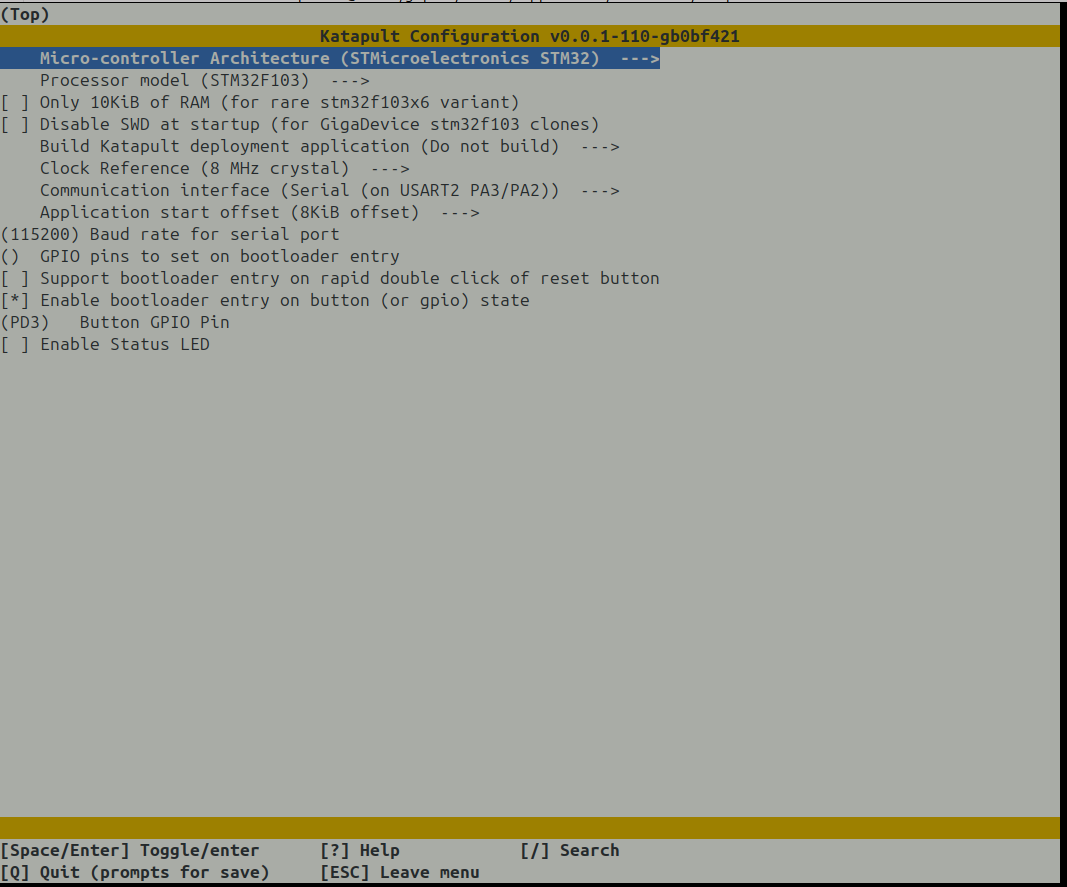
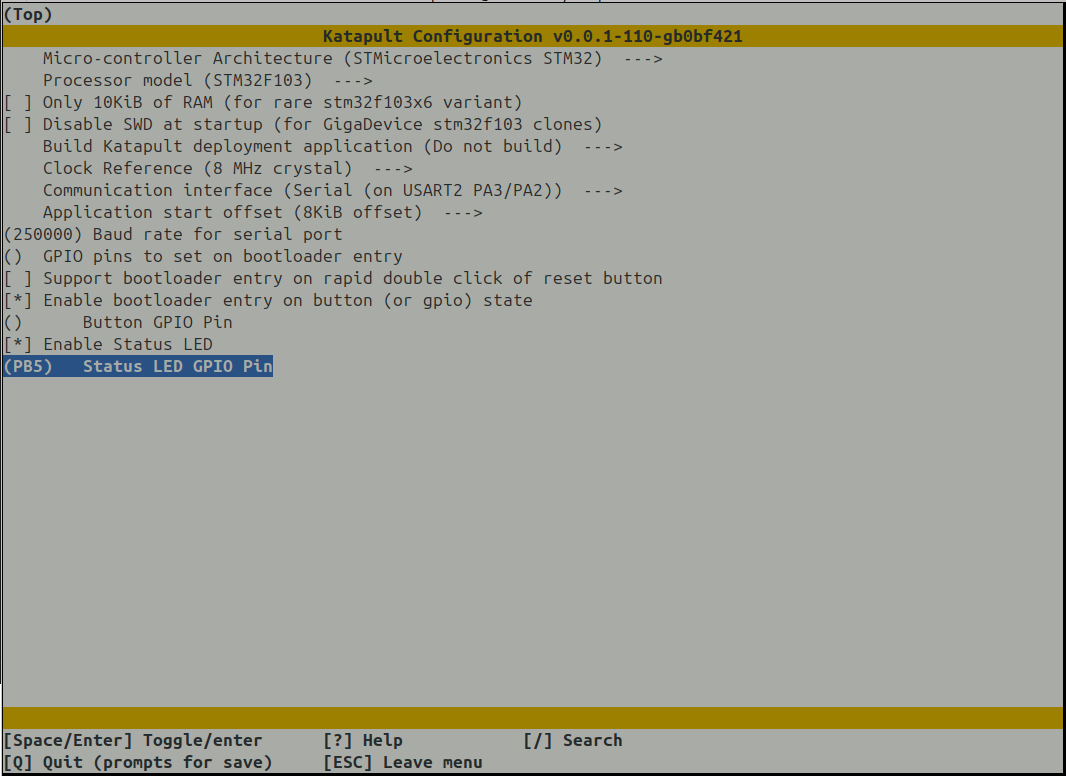
Some cleanup before sharing.

Changed region(s): [[0.0, 0.0, 1.0, 1.0]]

diff --git a/mcu/pins_ZORTRAX_M200.h b/mcu/pins_ZORTRAX_M200.h
@@ -1,0 +1,135 @@
+/**
+ * Marlin 3D Printer Firmware
+ * Copyright (c) 2021 MarlinFirmware [https://github.com/MarlinFirmware/Marlin]
+ *
+ * Based on Sprinter and grbl.
+ * Copyright (c) 2011 Camiel Gubbels / Erik van der Zalm
+ *
+ * This program is free software: you can redistribute it and/or modify
+ * it under the terms of the GNU General Public License as published by
+ * the Free Software Foundation, either version 3 of the License, or
+ * (at your option) any later version.
+ *
+ * This program is distributed in the hope that it will be useful,
+ * but WITHOUT ANY WARRANTY; without even the implied warranty of
+ * MERCHANTABILITY or FITNESS FOR A PARTICULAR PURPOSE.  See the
+ * GNU General Public License for more details.
+ *
+ * You should have received a copy of the GNU General Public License
+ * along with this program.  If not, see <https://www.gnu.org/licenses/>.
+ *
+ */
+#pragma once
+
+/**
+ * Zortrax M200/M300 (STM32F103VCT6) board pin assignments
+ */
+
+#include "env_validate.h"
+
+#define BOARD_INFO_NAME "Zortrax M200/M300"
+
+//
+// Stepper Motors
+//
+
+#define X_STEP_PIN          PB3   // X_STP_Pin
+#define X_DIR_PIN           PD9   // X_DIR_Pin
+#define X_ENABLE_PIN        PD14  // MOT_EN_Pin (shared)
+#define X_MS1_PIN           PB10  // X_MS1_Pin
+#define X_MS2_PIN           PB11  // X_MS2_Pin
+#define X_MS3_PIN           PD8   // X_MS3_Pin
+
+#define Y_STEP_PIN          PB4   // Y_STP_Pin
+#define Y_DIR_PIN           PD13  // Y_DIR_Pin
+#define Y_ENABLE_PIN        PD14  // MOT_EN_Pin (shared)
+#define Y_MS1_PIN           PD10  // Y_MS1_Pin
+#define Y_MS2_PIN           PD11  // Y_MS2_Pin
+#define Y_MS3_PIN           PD12  // Y_MS3_Pin
+
+#define Z_STEP_PIN          PB7   // Z_STP_Pin
+#define Z_DIR_PIN           PC12  // Z_DIR_Pin
+#define Z_ENABLE_PIN        PD14  // MOT_EN_Pin (shared)
+#define Z_MS1_PIN           PA15  // Z_MS1_Pin
+#define Z_MS2_PIN           PC10  // Z_MS2_Pin
+#define Z_MS3_PIN           PC11  // Z_MS3_Pin
+
+#define E0_STEP_PIN         PA0   // E_STP_Pin
+#define E0_DIR_PIN          PD0   // E_DIR_Pin
+#define E0_ENABLE_PIN       PD14  // MOT_EN_Pin (shared)
+
+//
+// Endstops
+//
+#define X_MIN_PIN           PE12   // X_ENDSTOP_Pin
+#define Y_MIN_PIN           PC6   // Y_ENDSTOP_Pin
+// #define Z_MIN_PIN           PE15  // Z_SENSOR_Pin
+// #define Z_MAX_PIN           PA8   // Z_DOWN_ENDSTOP_Pin
+#define Z_MIN_PROBE_PIN         PC7   // PLATFORM_ENDSTOP_Pin
+// #define FILAMENT_RUNOUT_PIN PD15  // FILAMENT_ENDSTOP_Pin
+
+//
+// Heaters / Fans
+//
+#define HEATER_0_PIN        PC8   // HEATER_PWM_Pin
+#define HEATER_BED_PIN      PC9   // PLATFORM_HEATER_Pin
+#define FAN0_PIN            PE13  // FAN1_Pin
+#define FAN1_PIN            PE14  // FAN2_Pin
+
+//
+// Temperature Sensors
+//
+#define TEMP_0_PIN          PB1   // EXT_TEMP_Pin (ADC1_CHANNEL_9)
+#define TEMP_BED_PIN        PB0   // PLATFORM_TEMP_Pin (ADC1_CHANNEL_8)
+
+//
+// SD Card (SPI1)
+//
+#define SD_SS_PIN           PA4  // SD chip select
+// #define SD_SCK_PIN          PA5
+// #define SD_MISO_PIN         PA6
+// #define SD_MOSI_PIN         PA7
+// #define SD_DETECT_PIN       PB2
+
+//
+// Display (SSD1322 256x64 4bpp grayscale OLED, SPI2)
+//
+#define DOGLCD_CS           PB12   // Chip select for SSD1322
+#define DOGLCD_A0           PB14   // Data/Command for SSD1322
+#define DOGLCD_MOSI         PB15
+#define DOGLCD_SCK          PB13
+
+#define LCD_RESET_PIN       PE10
+#define OLED_PWR            PE9    // PWR pin for SSD1322
+
+#define FORCE_SOFT_SPI
+
+//
+// Buzzer
+//
+#define BEEPER_PIN          PC4   // BUZZER_Pin (for display beeper)
+
+//
+// Rotary Encoder
+//
+#define BTN_ENC             PC5   // Encoder click
+#define BTN_EN1             PE7   // Encoder EN1
+#define BTN_EN2             PE8   // Encoder EN2
+
+//
+// Case Light RGB LED Strip
+//
+#define LED_PIN_R           PD7   // R_LED_PIN
+#define LED_PIN_G           PB5   // G_LED_PIN
+#define LED_PIN_B           PD6   // B_LED_PIN
+
+//
+// Debug UART
+//
+#define SERIAL_TX_PIN       PA9   // DEBUG_UART_TX_Pin
+#define SERIAL_RX_PIN       PA10  // DEBUG_UART_RX_Pin
+
+// Enable OLED
+#define BOARD_PREINIT() { \
+  OUT_WRITE(OLED_PWR, HIGH); \
+}

diff --git a/README.md b/README.md
@@ -3,7 +3,7 @@
 A replacement firmare for the Zortrax M200+ 3D printer.
 
 This firmware is based on Debian/Armbian and allows to install klipper on the m200+.
-? There is more or less no comming back.
+There is no comming back once the microcontroller is flashed.
 
 ## Access the internal single board comuter
 
@@ -11,7 +11,7 @@ You need:
 * a serial port on the UART0 J5 connector for the u-boot and Linux serial console.
 * a special USB-A to USB-A cable with no 5V connexion to be able to use the FEL mode.
 
-At boot, press 2 on the serial console, it will start in FEL mode.
+At boot, press '2' on the serial console, it will start in FEL mode.
 You should see this on "dmesg -w":
 ```
 ID 1f3a:efe8 Allwinner Technology sunxi SoC OTG connector in FEL/flashing mode
@@ -24,16 +24,22 @@ It starts uboot and you can browse files and dump data.
 
 Then you can use this uboot prompt to load the dtb and the kernel, then boot Armbian from the usb stick.
 
-Once in Linux, a set of scripts allows you to:
+Once in Linux, you can:
 - dump the original disk image on the usb stick.
 - dump the vendor u-boot env
 - write your u-boot-env
 - write u-boot-dtb.bin to the FAT16 partition
 
-
 ## Download the image
 
-## At first boot
+Compile u-boot with build_m200.sh from the u-boot folder in this repo, run it the u-boot fork repo.
+Create an Armbian full image using the lime-A33 board using the armbian_build repo.
+DD it on /dev/sda2 (or edit uboot command to use sda1 instead).
+Do not forget to include linux headers and to enable the touchscreen (see linux.md).
+
+## At first boot from FEL mode
+
+Look at usb.md or progress.md to see how to load the kernel from u-boot.
 
 Install the new u-boot env and mainline uboot binary on the emmc such as to automaticly boot from the USB drive.
 The original emmc is not that much altered, only the env. You can resore it with a backup file or in vendor u-boot console.
@@ -53,6 +59,7 @@ https://travis90x.altervista.org/armbian-first-boot-and-install-klipper/
 git clone https://github.com/dw-0/kiauh.git
 ./kiauh/kiauh.sh
 ```
+It will install everything klipper related and build the firmware.
 
 ### Flash the microcontroller and start Klipper
 
@@ -64,7 +71,8 @@ rpanfili has already configured klipper for zortrax M200 but for an SK200 MCU bo
 However the geometry and a lot of stock parameters are already in his configuration.
 
 Zortrax has published a Marlin port for the M200.
-By looking at the commits, we can find the MCU pinouts in "pins_ZORTRAX_M200.h" to configure the klipper MCU firmware.
+By looking at the commits, we can find the MCU pinouts in "pins_ZORTRAX_M200.h" to configure the klipper MCU firmware the other plus specific pinouts are in the zmxxxp-re repository.
+Be carefull whith the Z axis stop, it is not the same.
 
 The configuration in this repo is the rpanfili one, updated for the Zortrax MCU board instead of the SK1.4.
 

diff --git a/documentation/Readme.md b/documentation/Readme.md
@@ -34,7 +34,7 @@ https://github.com/rpanfili/sk200
 ### Machine alike
 
 https://linux-sunxi.org/Sinlinx_SinA33
-Same except 1GB ram instead of 2GB
+Nearly the same, when looked from a distance.
 
 ## Zortrax Machine
 
@@ -49,19 +49,7 @@ Pinout in A33-core3.pdf
 Adafruit SSDIO breakout board:
 https://www.adafruit.com/product/4682
 
-### Cryptochip
-
-https://kamami.pl/en/cryptographic-module/587245-stemma-qt-atecc608-module-with-atecc608a-cryptographic-chip-5906623430222.html
-
-Sort of i2c interface. It is used to communicate with the TPM/cryptochip.
-https://github.com/torvalds/linux/blob/master/drivers/char/tpm/tpm_tis_i2c.c
-All the TPM kernel modules on i2c:
-https://gemfury.com/dfinimundi/deb:linux-headers-current-sunxi64/-/content/usr/src/linux-headers-5.8.10-sunxi64/drivers/char/tpm/Kconfig
-
--> replace the TPM by an accelerometer plus an optical depth sensor.
-Using a ribbon cable to a micromatch or directly a long ribbon cable to the board.
-
-### Connecteur
+### Connector
 
 C'est du Molex.
 
@@ -77,4 +65,3 @@ https://github.com/u-boot/u-boot/blob/master/doc/board/allwinner/sunxi.rst
 ### Debian
 https://wiki.debian.org/InstallingDebianOn/Allwinner
 
-## Installing linux on the board

diff --git a/scripts/usb.md b/scripts/usb.md
@@ -1,6 +1,6 @@
 ## UMS mode
 
-Uboot has a UMS mode such as the emmc becomes a usb mass storage device. But I could not mke it work on the m200. The command was not visible and, if the otg was enabled in the device tree, uboot crashed.
+Uboot has a UMS mode such as the emmc becomes a usb mass storage device. But I could not make it work on the m200. The command was not visible and, if the otg was enabled in the device tree, uboot crashed.
 Plus the USB0 port has weird settings with a regulator at 3V (see the fex file).
 
 ## Transfering an image without usb

diff --git a/u-boot/Readme.md b/u-boot/Readme.md
@@ -1,1 +1,5 @@
 Find a compatible u-boot here: git@github.com:mandraga/u-boot.git
+The device tree is in this repository.
+It is also in the submodules.
+
+The modified u-boot env replaces the stock env, it adds a one second wait to enter the u-boot console instead of zero, and chain loads u-boot mainline as default boot command.
